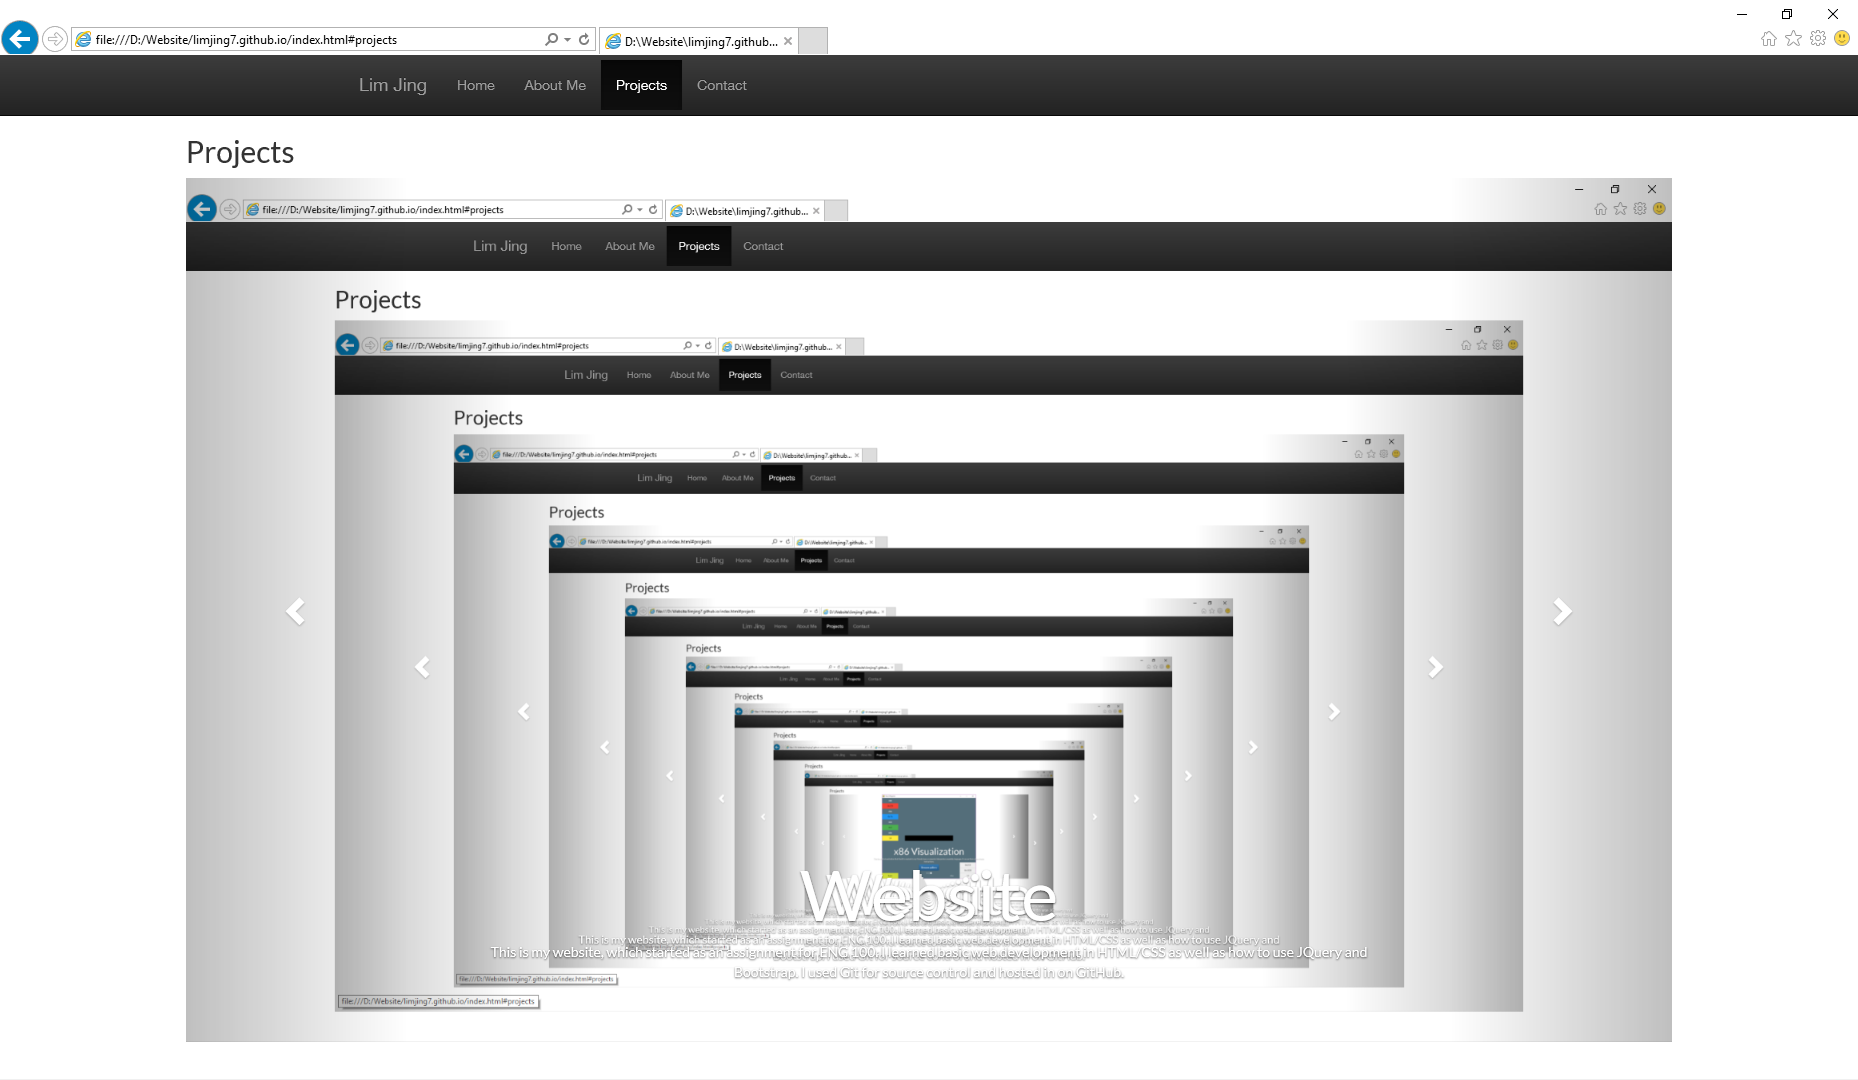
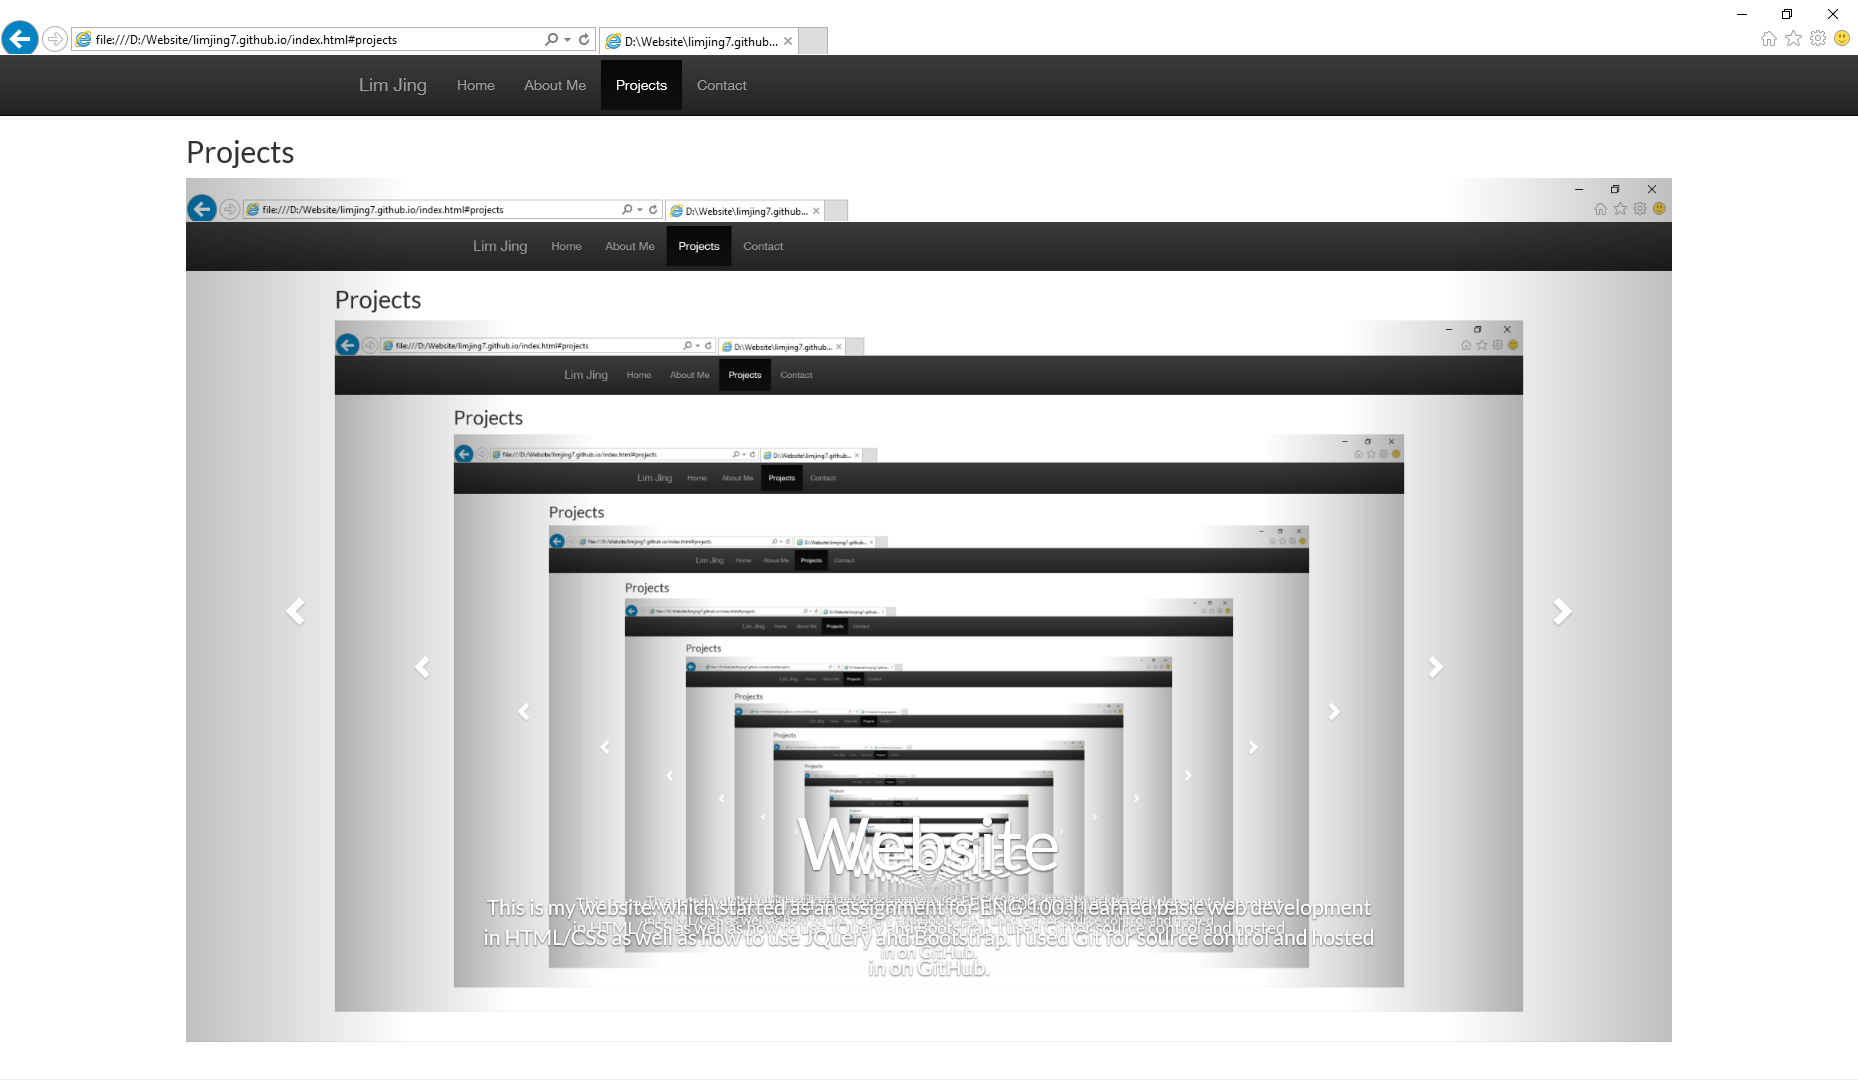
made the buttons work

Changed region(s): [[0.1873, 0.7333, 0.7492, 0.9472]]

diff --git a/projects.html b/projects.html
@@ -12,8 +12,8 @@
           <img class="first-slide" src="assets/img/website.png" alt="Website">
           <div class="container">
             <div class="carousel-caption">
-              <h1>Website</h1>
-              <p>This is my website, which started as an assignment for ENG 100. I learned basic web development in HTML/CSS as well as how to use JQuery and Bootstrap. I used Git for source control and hosted in on GitHub.</p>
+              <h1 class="carousel-text">Website</h1>
+              <p class="carousel-text">This is my website, which started as an assignment for ENG 100. I learned basic web development in HTML/CSS as well as how to use JQuery and Bootstrap. I used Git for source control and hosted in on GitHub.</p>
             </div>
           </div>
         </div>
@@ -21,9 +21,9 @@
           <img class="second-slide" src="assets/img/tetris.png" alt="Tetris">
           <div class="container">
             <div class="carousel-caption">
-              <h1>Tetris</h1>
-              <p>This is a tetris clone built in Python 2, using the Pygame library for the GUI. I used git for source control.</p>
-              <p><a class="btn btn-lg btn-primary" href="#" role="button">Learn more</a></p>
+              <h1 class="carousel-text">Tetris</h1>
+              <p class="carousel-text">This is a tetris clone built in Python 2, using the Pygame library for the GUI. I used git for source control.</p>
+              <p><a class="btn btn-lg btn-primary" href="https://github.com/LimJing7/Tetris_pygame" role="button">Learn more</a></p>
             </div>
           </div>
         </div>
@@ -33,7 +33,7 @@
             <div class="carousel-caption">
               <h1>x86 Visualization</h1>
               <p>This is a x86 visualization that I built to explain to my friends how a computer interpretes assembly language. It can perform a few simple instructions.</p>
-              <p><a class="btn btn-lg btn-primary" href="#" role="button">Browse gallery</a></p>
+              <p><a class="btn btn-lg btn-primary" href="https://github.com/LimJing7/x86-stack-reg" role="button">Learn more</a></p>
             </div>
           </div>
         </div>

diff --git a/assets/css/portfolio.css b/assets/css/portfolio.css
@@ -37,11 +37,7 @@ body {
   margin: auto;
 }
 
-.carousel-caption div{
-    color: black
-    text-shadow:
-   -1px -1px 0 #000,  
-    1px -1px 0 #000,
-    -1px 1px 0 #000,
-     1px 1px 0 #000;
+.carousel-text{
+    color: white
+    text-shadow: 0 0 5px #000, 0 0 1px #000, 0 0 25px #000
 }
